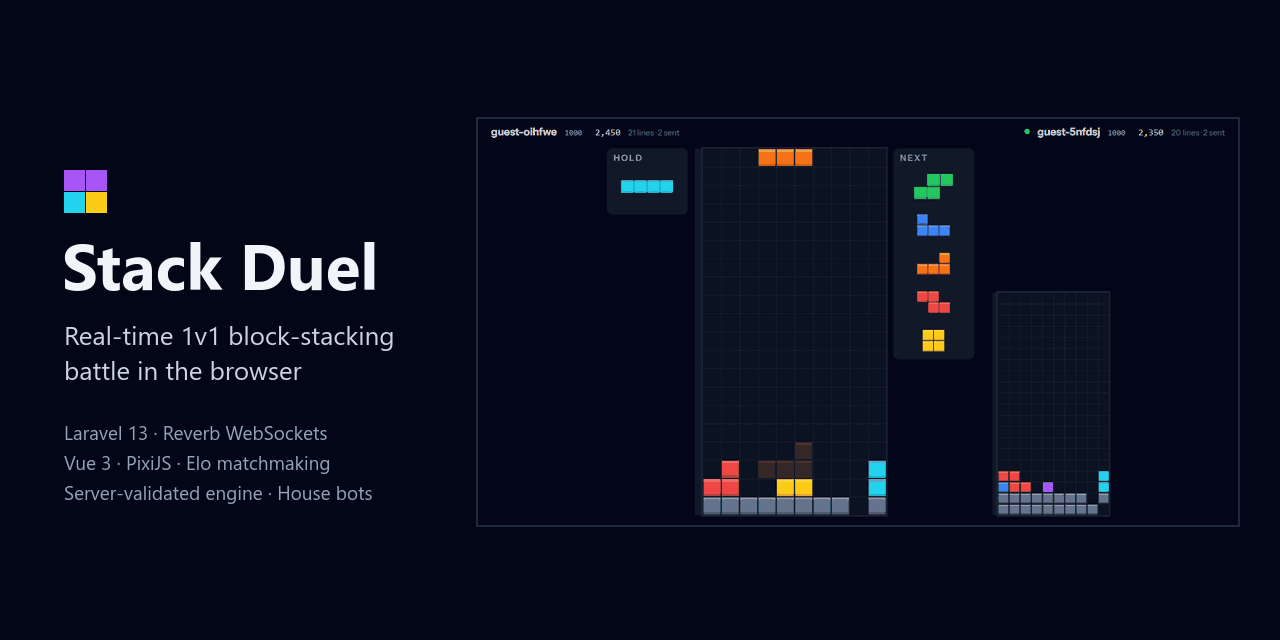
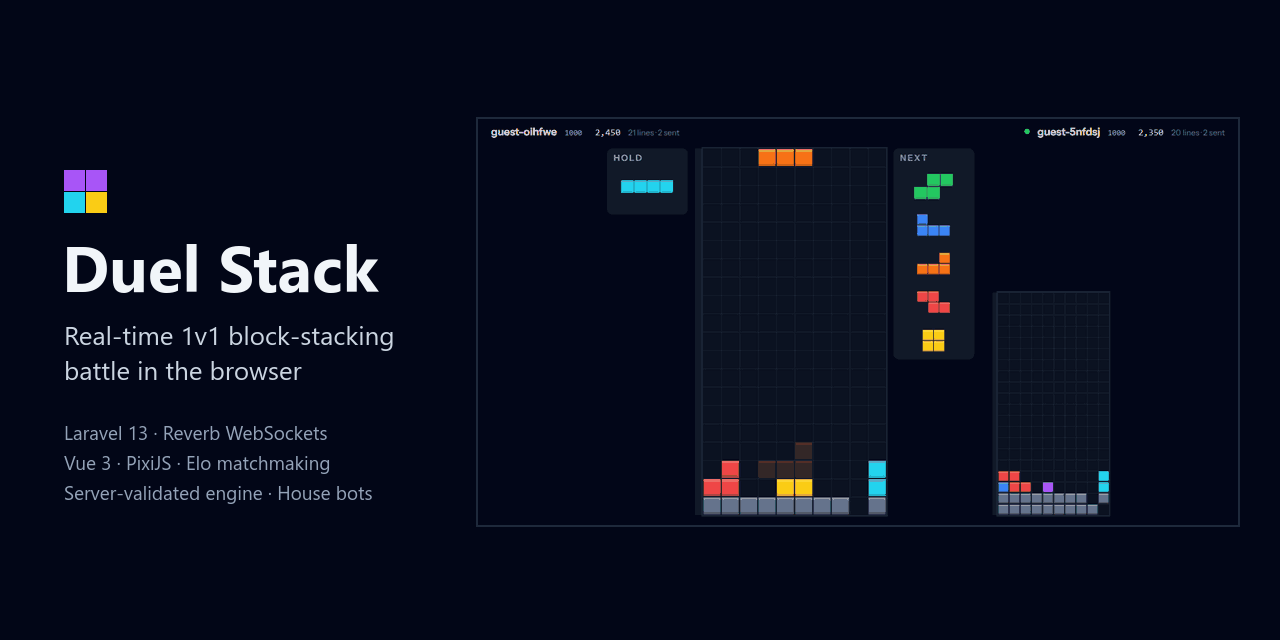
Human-paced bots and rename to Duel Stack
Bots now take a varying think time per piece (half to 1.3 times their
average, with the odd long pause), seeded by match and piece so the
stateless driver stays deterministic. Levels move down a notch: medium
plays at the old easy pace and error rate, hard at the old medium, and
easy is slower still. Playback shows the piece waiting at the top while
the bot decides, then moving and dropping.

Practice mode uses the same think times, and now applies the player's
own DAS/ARR settings (a local variable had shadowed them).

Changed region(s): [[0.0312, 0.375, 0.3125, 0.4688]]

diff --git a/resources/js/composables/usePracticeMatch.js b/resources/js/composables/usePracticeMatch.js
@@ -1,6 +1,6 @@
 import { onBeforeUnmount, reactive, ref, shallowRef } from 'vue';
 import { Game } from '../engine/game.js';
-import { DIFFICULTIES, chooseMove } from '../engine/bot.js';
+import { DIFFICULTIES, chooseMove, thinkMs } from '../engine/bot.js';
 import { settings } from '../lib/settings';
 import { sfx } from '../lib/sound';
 
@@ -18,12 +18,12 @@ export function usePracticeMatch() {
     const timers = [];
     let garbageId = 0;
 
-    const clearTimers = () => timers.splice(0).forEach((t) => clearInterval(t));
+    const clearTimers = () => timers.splice(0).forEach((t) => clearTimeout(t));
 
     function start(difficulty = 'medium') {
         clearTimers();
         const seed = Math.floor(Math.random() * 4294967296);
-        const settings = DIFFICULTIES[difficulty];
+        const level = DIFFICULTIES[difficulty];
 
         const send = (target, attack) => {
             if (attack <= 0) return;
@@ -75,16 +75,17 @@ export function usePracticeMatch() {
             status.value = 'playing';
             you.start();
             opponent.start();
-            timers.push(
-                setInterval(() => {
-                    if (!opponent.running) return;
-                    const move = chooseMove(opponent.state, opponent.randomizer, {
-                        canHold: !opponent.heldThisTurn,
-                        mistakeRate: settings.mistakeRate,
-                    });
-                    if (move) opponent.placeDirect(move);
-                }, 1000 / settings.piecesPerSecond),
-            );
+            // Each piece gets its own think time, as a person's would.
+            const playNext = () => {
+                if (!opponent.running) return;
+                const move = chooseMove(opponent.state, opponent.randomizer, {
+                    canHold: !opponent.heldThisTurn,
+                    mistakeRate: level.mistakeRate,
+                });
+                if (move) opponent.placeDirect(move);
+                timers.push(setTimeout(playNext, thinkMs(level)));
+            };
+            timers.push(setTimeout(playNext, thinkMs(level)));
         }, 1000);
         timers.push(countdownTimer);
     }

diff --git a/resources/js/engine/playback.js b/resources/js/engine/playback.js
@@ -1,13 +1,14 @@
 import { SPAWN_X, SPAWN_Y } from './constants.js';
 import { fits } from './board.js';
 
-// Share of the playback spent rotating and shifting at the top; the rest is the fall.
-const MOVE_SHARE = 0.4;
+// Shares of the playback spent looking at the piece, then rotating and shifting it at the top; the rest is the drop.
+const THINK_SHARE = 0.35;
+const MOVE_SHARE = 0.35;
 
 /**
  * Where a piece is part-way through a replayed lock, as the falling piece an opponent would
- * have seen: it spawns as the engine spawns it, rotates and shifts one step at a time, then
- * falls straight to its resting place. `progress` runs from 0 to 1.
+ * have seen: it spawns as the engine spawns it and waits while the player decides, rotates and
+ * shifts one step at a time, then falls straight to its resting place. `progress` runs from 0 to 1.
  *
  * Used for the house bots, which lock pieces on the server without a live falling piece.
  */
@@ -24,12 +25,12 @@ export function pieceAlongLock(board, lock, progress) {
     ];
 
     const t = Math.min(Math.max(progress, 0), 1);
-    if (t < MOVE_SHARE) {
-        const done = Math.floor((t / MOVE_SHARE) * (steps.length + 1));
+    if (t < THINK_SHARE + MOVE_SHARE) {
+        const done = Math.floor((Math.max(t - THINK_SHARE, 0) / MOVE_SHARE) * (steps.length + 1));
         const at = done === 0 ? { rotation: 0, x: SPAWN_X } : steps[Math.min(done, steps.length) - 1];
         return { type, rotation: at.rotation, x: at.x, y: startY };
     }
 
-    const fall = (t - MOVE_SHARE) / (1 - MOVE_SHARE);
+    const fall = (t - THINK_SHARE - MOVE_SHARE) / (1 - THINK_SHARE - MOVE_SHARE);
     return { type, rotation, x, y: Math.round(startY + (y - startY) * fall) };
 }

diff --git a/resources/js/engine/bot.js b/resources/js/engine/bot.js
@@ -5,11 +5,21 @@ import { afterHold } from './simulation.js';
 // Weights from Yiyuan Lee's "Tetris AI – The (Near) Perfect Bot" (El-Tetris style features).
 const WEIGHTS = { height: -0.510066, lines: 0.760666, holes: -0.35663, bumpiness: -0.184483 };
 
+// Average speed and error rate, matching Bot::LEVELS on the server.
 export const DIFFICULTIES = {
-    easy: { piecesPerSecond: 0.9, mistakeRate: 0.25 },
-    medium: { piecesPerSecond: 1.6, mistakeRate: 0.08 },
-    hard: { piecesPerSecond: 2.6, mistakeRate: 0 },
+    easy: { piecesPerSecond: 0.6, mistakeRate: 0.4 },
+    medium: { piecesPerSecond: 0.9, mistakeRate: 0.25 },
+    hard: { piecesPerSecond: 1.6, mistakeRate: 0.08 },
 };
+
+/**
+ * How long the bot takes over a piece, like a person: half to 1.3 times its average, now and then with a
+ * long pause on top (as Bot::thinkMilliseconds does on the server).
+ */
+export function thinkMs({ piecesPerSecond }, random = Math.random) {
+    const factor = 0.5 + 0.8 * random() + (random() < 0.1 ? 1 : 0);
+    return Math.round((factor * 1000) / piecesPerSecond);
+}
 
 function columnHeights(board) {
     const heights = [];

diff --git a/resources/js/views/PracticeView.vue b/resources/js/views/PracticeView.vue
@@ -23,7 +23,7 @@ useKeyboard(() => game.value);
             <div class="ml-auto flex items-center gap-2">
                 <select v-model="difficulty" class="rounded-lg border border-slate-700 bg-slate-900 px-3 py-1.5 text-sm" :disabled="status === 'playing' || status === 'countdown'">
                     <option v-for="(settings, name) in DIFFICULTIES" :key="name" :value="name">
-                        {{ name[0].toUpperCase() + name.slice(1) }} · {{ settings.piecesPerSecond }} pieces/s
+                        {{ name[0].toUpperCase() + name.slice(1) }} · ~{{ settings.piecesPerSecond }} pieces/s
                     </option>
                 </select>
                 <button

diff --git a/resources/js/App.vue b/resources/js/App.vue
@@ -20,7 +20,7 @@ async function signOut() {
                         <span class="size-2 rounded-[2px] bg-cyan-400"></span><span class="size-2 rounded-[2px] bg-purple-500"></span>
                         <span class="size-2 rounded-[2px] bg-orange-500"></span><span class="size-2 rounded-[2px] bg-green-500"></span>
                     </span>
-                    Stack Duel
+                    Duel Stack
                 </RouterLink>
                 <div class="flex items-center gap-4 text-sm text-slate-400">
                     <RouterLink to="/leaderboard" class="hover:text-white" active-class="text-white">Leaderboard</RouterLink>

diff --git a/resources/js/lib/lockPlayback.js b/resources/js/lib/lockPlayback.js
@@ -1,7 +1,7 @@
 import { pieceAlongLock } from '../engine/playback.js';
 
 // Each lock is played back over most of the gap since the previous one, within these bounds.
-const PLAYBACK = { firstMs: 500, minMs: 200, maxMs: 900, share: 0.9, maxBacklog: 3 };
+const PLAYBACK = { firstMs: 500, minMs: 200, maxMs: 2500, share: 0.9, maxBacklog: 3 };
 
 /**
  * Plays a player's locks back as a falling piece, for boards that get no live falling-piece whispers: a house

diff --git a/app/Game/Bot.php b/app/Game/Bot.php
@@ -12,15 +12,32 @@ final class Bot
     private const WEIGHTS = ['height' => -0.510066, 'lines' => 0.760666, 'holes' => -0.35663, 'bumpiness' => -0.184483];
 
     /**
-     * Speed and error rate per level, matching DIFFICULTIES in bot.js.
+     * Average speed and error rate per level, matching DIFFICULTIES in bot.js. Medium plays at a casual
+     * human's pace; hard at a practised one's.
      *
      * @var array<string, array{pieces_per_second: float, mistake_rate: float}>
      */
     public const LEVELS = [
-        'easy' => ['pieces_per_second' => 0.9, 'mistake_rate' => 0.25],
-        'medium' => ['pieces_per_second' => 1.6, 'mistake_rate' => 0.08],
-        'hard' => ['pieces_per_second' => 2.6, 'mistake_rate' => 0.0],
+        'easy' => ['pieces_per_second' => 0.6, 'mistake_rate' => 0.4],
+        'medium' => ['pieces_per_second' => 0.9, 'mistake_rate' => 0.25],
+        'hard' => ['pieces_per_second' => 1.6, 'mistake_rate' => 0.08],
     ];
+
+    /** Chance that a piece gets a long hesitation, and how many average pieces' time it adds. */
+    private const HESITATION = ['chance' => 0.1, 'length' => 1.0];
+
+    /**
+     * How long the bot takes over a piece, like a person: anywhere from half to 1.3 times its average,
+     * now and then with a long pause on top, averaging out at its level's pace. The same match and piece
+     * always give the same time, so a stateless driver can tell when the piece is due.
+     */
+    public static function thinkMilliseconds(string $level, int $seed, int $pieceNumber): int
+    {
+        $roll = fn (int $salt): float => (crc32("{$seed}:{$pieceNumber}:{$salt}") % 1_000_000) / 1_000_000;
+        $factor = 0.5 + 0.8 * $roll(0) + ($roll(1) < self::HESITATION['chance'] ? self::HESITATION['length'] : 0.0);
+
+        return (int) round($factor * 1000 / self::LEVELS[$level]['pieces_per_second']);
+    }
 
     /**
      * A lock for the current turn, or null if nothing fits.

diff --git a/app/Services/BotDriver.php b/app/Services/BotDriver.php
@@ -11,8 +11,8 @@ use App\Models\MatchPlayer;
 use Illuminate\Support\Facades\DB;
 
 /**
- * Plays the bots' side of every live bot match. Stateless: a bot's next piece is due one
- * interval (set by its level's speed) after its last lock, so any number of ticks, or a
+ * Plays the bots' side of every live bot match. Stateless: a bot's next piece is due its think
+ * time (see Bot::thinkMilliseconds) after its last lock, so any number of ticks, or a
  * restarted driver, plays at the same pace.
  *
  * Bot locks go through LockProcessor, so bots follow exactly the rules players do.
@@ -40,10 +40,10 @@ class BotDriver
     private function play(MatchPlayer $bot): bool
     {
         $match = $bot->gameMatch;
-        $level = Bot::LEVELS[$bot->user->bot_level];
+        $level = $bot->user->bot_level;
 
         $lastLock = $bot->last_active_at ?? $match->starts_at;
-        if ($lastLock->diffInMilliseconds(now()) < 1000 / $level['pieces_per_second']) {
+        if ($lastLock->diffInMilliseconds(now()) < Bot::thinkMilliseconds($level, $match->seed, $bot->pieces)) {
             return false;
         }
 
@@ -53,7 +53,7 @@ class BotDriver
 
         $state = $bot->toState();
         $randomizer = new Randomizer($match->seed);
-        $move = Bot::chooseMove($state, $randomizer, $level['mistake_rate']);
+        $move = Bot::chooseMove($state, $randomizer, Bot::LEVELS[$level]['mistake_rate']);
         if ($move === null) {
             return false;
         }

diff --git a/tests/Feature/BotMatchTest.php b/tests/Feature/BotMatchTest.php
@@ -3,6 +3,7 @@
 namespace Tests\Feature;
 
 use App\Events\MatchFound;
+use App\Game\Bot;
 use App\Game\Randomizer;
 use App\Models\GameMatch;
 use App\Models\MatchPlayer;
@@ -71,9 +72,14 @@ class BotMatchTest extends TestCase
 
         $this->artisan('bots:play', ['--seconds' => 10])->assertSuccessful();
 
-        // 1.6 pieces a second, without a burst to catch up on the time before the driver started.
+        // The first piece at once, then one per think time, without a burst to catch up on the time before the
+        // driver started.
+        $expected = 1;
+        for ($elapsed = 0; ($elapsed += Bot::thinkMilliseconds('medium', $match->seed, $expected)) <= 10_000;) {
+            $expected++;
+        }
         $bot->refresh();
-        $this->assertEqualsWithDelta(16, $bot->pieces, 1);
+        $this->assertEqualsWithDelta($expected, $bot->pieces, 1);
         $this->assertFalse($bot->topped_out);
         $this->assertSame($bot->pieces, $bot->moves()->count());
         $this->assertFalse($match->fresh()->isFinished());
@@ -84,7 +90,7 @@ class BotMatchTest extends TestCase
         [, $broken] = $this->botMatch('medium');
         [, $healthy] = $this->botMatch('hard');
         $broken->update(['board' => 'not a board']);
-        $this->travel(1)->seconds();
+        $this->travel(3)->seconds();
 
         $this->assertSame(1, app(BotDriver::class)->tick());
 

diff --git a/tests/Unit/BotTest.php b/tests/Unit/BotTest.php
@@ -64,4 +64,16 @@ class BotTest extends TestCase
 
         $this->assertNotEquals($best, $mistake);
     }
+
+    public function test_think_times_vary_like_a_persons_but_keep_the_levels_pace(): void
+    {
+        $average = 1000 / Bot::LEVELS['medium']['pieces_per_second'];
+        $times = array_map(fn (int $piece) => Bot::thinkMilliseconds('medium', 42, $piece), range(0, 1999));
+
+        $this->assertSame($times[7], Bot::thinkMilliseconds('medium', 42, 7), 'the same piece always takes the same time');
+        $this->assertGreaterThanOrEqual(0.5 * $average, min($times));
+        $this->assertLessThanOrEqual(2.3 * $average, max($times));
+        $this->assertGreaterThan(1.3 * $average, max($times), 'the odd long pause');
+        $this->assertEqualsWithDelta($average, array_sum($times) / count($times), 0.05 * $average);
+    }
 }

diff --git a/README.md b/README.md
@@ -1,4 +1,4 @@
-# Stack Duel
+# Duel Stack
 
 [![CI](https://github.com/GodfreysDragon/stack-duel/actions/workflows/ci.yml/badge.svg)](https://github.com/GodfreysDragon/stack-duel/actions/workflows/ci.yml)
 
@@ -25,7 +25,8 @@ MySQL 8 or SQLite
 - **Rating-based matchmaking.** The acceptable rating gap widens the longer you wait (±150, plus 25 a second, up to
   ±1000).
 - **House bots.** A player left alone for 15 seconds is paired with the closest-rated bot: Rookie, Club or Pro. Bots
-  play on the server under exactly the same rules as players.
+  play on the server under exactly the same rules as players, at a human pace: each piece takes a varying think time,
+  with the odd long pause.
 - **A full modern ruleset:** SRS rotation with wall kicks, hold, a 5-piece preview, a ghost piece, DAS/ARR and lock
   delay. Attacks come from combos, back-to-back tetrises and perfect clears, and cancel incoming garbage first.
 - **Exact replays** of every finished match, with scrubbing, 0.5–4x speed and a board swap.
@@ -73,8 +74,8 @@ period.
 
 **Bots.** `php artisan bots:play` is a single daemon that plays every bot match. It ports the JS bot's placement
 search to PHP: height, holes, bumpiness and lines, over every drop of the current piece and the hold swap. It
-submits each lock through the same `LockProcessor` that players use. The daemon is stateless: a bot's next piece is due
-one interval after its last lock, so a restarted daemon picks up at the same pace.
+submits each lock through the same `LockProcessor` that players use. The daemon is stateless: a bot's think time for
+each piece comes from a hash of the match seed and the piece number, so a restarted daemon picks up at the same pace.
 
 **Leaving a match.** A running game sends a heartbeat every 5 seconds from its render loop, which stops when the tab is
 hidden. If a player has had no heartbeat and no lock for 20 seconds, or no lock for 5 minutes, the opponent can claim
